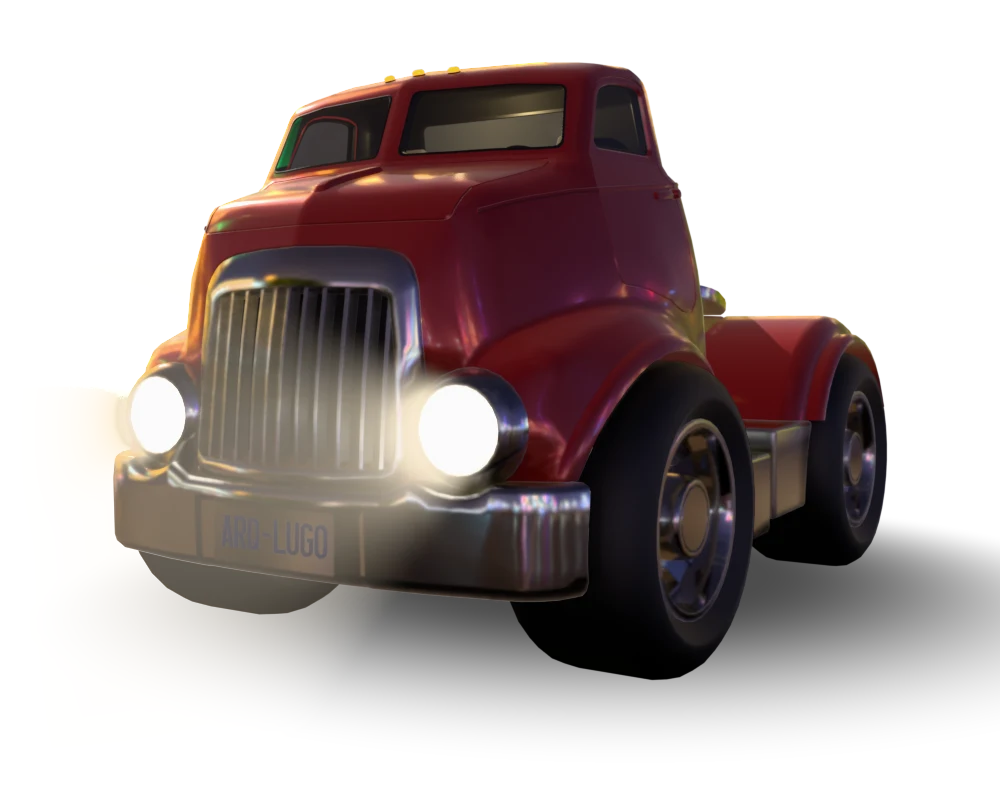
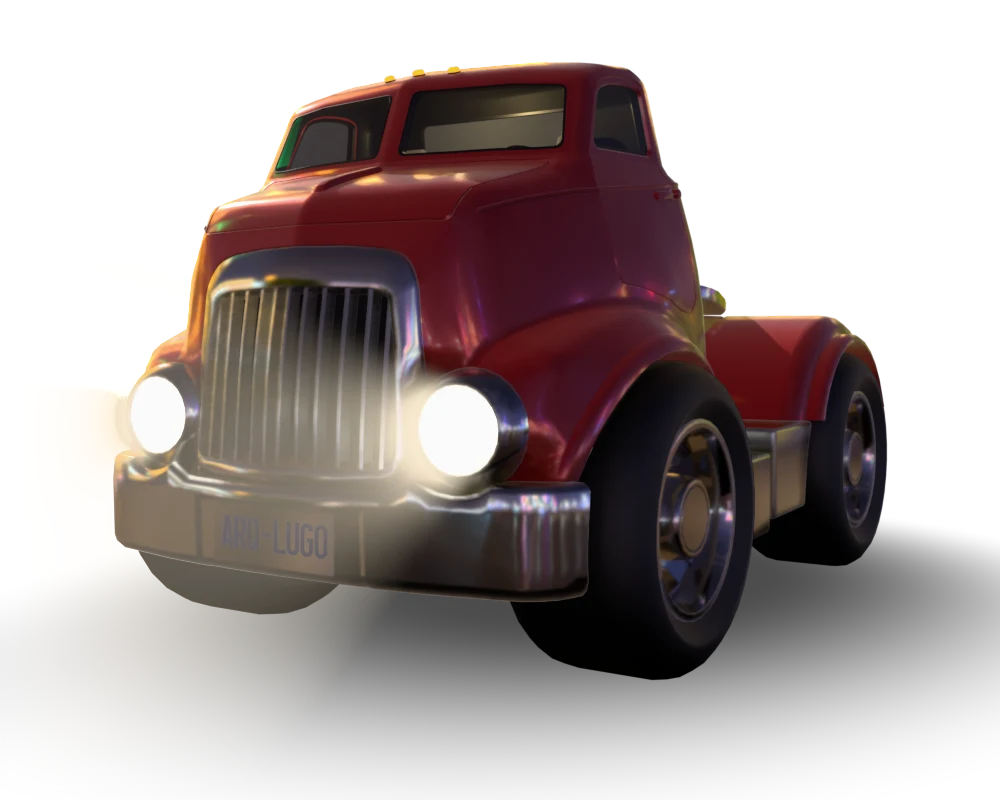
Home page truck: disk under the front wheels, truck 15% larger

Changed region(s): [[0.062, 0.75, 0.806, 0.9688]]

diff --git a/style.css b/style.css
@@ -85,9 +85,12 @@ p{margin:0 0 1em;max-width:var(--measure)}
 /* the truck (truck.js): a poster until the layers are in, then the canvas, its Kneady buttons over it.
    The canvas and buttons reach 20% past the stage all round (truck.js PAD), so a stretched or leaning
    truck isn't cut off; they take no clicks there, so the text beside them stays clickable. */
-.truck-stage{position:relative;aspect-ratio:5/4;width:100%;justify-self:center;touch-action:none;margin-bottom:2.6rem}
-.truck-stage canvas,.truck-stage svg{position:absolute;left:-20%;top:-20%;width:140%;height:140%;pointer-events:none}
-.truck-poster{position:absolute;inset:0;width:100%;height:100%}
+/* --truck-zoom: how large the truck and its disk are drawn in their space on the page, about its
+   middle (1 fills the space as rendered); the page's layout stays as it is. The canvas reaches 20%
+   past the space on every side, for the headlights' beams and the disk */
+.truck-stage{--truck-zoom:1.15;position:relative;aspect-ratio:5/4;width:100%;justify-self:center;touch-action:none;margin-bottom:2.6rem}
+.truck-stage canvas,.truck-stage svg{position:absolute;left:calc(50% - 70% * var(--truck-zoom));top:calc(50% - 70% * var(--truck-zoom));width:calc(140% * var(--truck-zoom));height:calc(140% * var(--truck-zoom));pointer-events:none}
+.truck-poster{position:absolute;left:calc(50% - 50% * var(--truck-zoom));top:calc(50% - 50% * var(--truck-zoom));width:calc(100% * var(--truck-zoom));height:calc(100% * var(--truck-zoom))}
 .truck-stage canvas{opacity:0}
 .truck-stage.is-ready canvas{opacity:1}
 .truck-stage.is-ready .truck-poster{visibility:hidden}

diff --git a/index.html b/index.html
@@ -15,7 +15,7 @@
 <link rel="preconnect" href="https://fonts.googleapis.com">
 <link rel="preconnect" href="https://fonts.gstatic.com" crossorigin>
 <link href="https://fonts.googleapis.com/css2?family=Instrument+Sans:wght@400;500;600;700&display=swap" rel="stylesheet">
-<link rel="stylesheet" href="style.css?v=943613">
+<link rel="stylesheet" href="style.css?v=943614">
 </head>
 <body>
 <div class="wrap">
@@ -41,7 +41,7 @@
         </div>
       </div>
       <div class="truck-stage" data-src="truck/" tabindex="0" role="application" aria-label="Kneady controls to try, on a truck: the arrow keys squash and lean it, Enter opens its menu, then 1 changes its color, 2 switches its lights, 3 opens its door and 4 turns its wheels">
-        <img class="truck-poster" src="truck/poster.webp?v=943613" alt="A red cartoon truck with its headlights on" width="1000" height="800">
+        <img class="truck-poster" src="truck/poster.webp?v=943614" alt="A red cartoon truck with its headlights on" width="1000" height="800">
         <canvas aria-hidden="true"></canvas>
         <svg aria-hidden="true"></svg>
         <span class="stage-hint">Hover over the truck</span>
@@ -163,6 +163,6 @@
     </nav>
   </footer>
 </div>
-<script src="truck.js?v=943613"></script>
+<script src="truck.js?v=943614"></script>
 </body>
 </html>

diff --git a/docs/guide/index.html b/docs/guide/index.html
@@ -12,8 +12,8 @@
 <link href="https://fonts.googleapis.com" rel="preconnect"/>
 <link crossorigin="" href="https://fonts.gstatic.com" rel="preconnect"/>
 <link href="https://fonts.googleapis.com/css2?family=Instrument+Sans:wght@400;500;600;700&amp;display=swap" rel="stylesheet"/>
-<link rel="stylesheet" href="/style.css?v=943613">
-<script src="/docs/docs.js?v=943613" defer></script>
+<link rel="stylesheet" href="/style.css?v=943614">
+<script src="/docs/docs.js?v=943614" defer></script>
 </head>
 <body class="docs">
 <!-- Made by tools/build_docs.py from the Kneady repository. Edit the source and build again. -->

diff --git a/docs/index.html b/docs/index.html
@@ -12,8 +12,8 @@
 <link href="https://fonts.googleapis.com" rel="preconnect"/>
 <link crossorigin="" href="https://fonts.gstatic.com" rel="preconnect"/>
 <link href="https://fonts.googleapis.com/css2?family=Instrument+Sans:wght@400;500;600;700&amp;display=swap" rel="stylesheet"/>
-<link rel="stylesheet" href="/style.css?v=943613">
-<script src="/docs/docs.js?v=943613" defer></script>
+<link rel="stylesheet" href="/style.css?v=943614">
+<script src="/docs/docs.js?v=943614" defer></script>
 </head>
 <body class="docs">
 <!-- Made by tools/build_docs.py from the Kneady repository. Edit the source and build again. -->

diff --git a/docs/writing-a-tutorial/index.html b/docs/writing-a-tutorial/index.html
@@ -12,8 +12,8 @@
 <link href="https://fonts.googleapis.com" rel="preconnect"/>
 <link crossorigin="" href="https://fonts.gstatic.com" rel="preconnect"/>
 <link href="https://fonts.googleapis.com/css2?family=Instrument+Sans:wght@400;500;600;700&amp;display=swap" rel="stylesheet"/>
-<link rel="stylesheet" href="/style.css?v=943613">
-<script src="/docs/docs.js?v=943613" defer></script>
+<link rel="stylesheet" href="/style.css?v=943614">
+<script src="/docs/docs.js?v=943614" defer></script>
 </head>
 <body class="docs">
 <!-- Made by tools/build_docs.py from the Kneady repository. Edit the source and build again. -->

diff --git a/404.html b/404.html
@@ -12,7 +12,7 @@
 <link rel="preconnect" href="https://fonts.googleapis.com">
 <link rel="preconnect" href="https://fonts.gstatic.com" crossorigin>
 <link href="https://fonts.googleapis.com/css2?family=Instrument+Sans:wght@400;500;600;700&display=swap" rel="stylesheet">
-<link rel="stylesheet" href="style.css?v=943613">
+<link rel="stylesheet" href="style.css?v=943614">
 </head>
 <body>
 <div class="wrap">

diff --git a/made.html b/made.html
@@ -12,7 +12,7 @@
 <link rel="preconnect" href="https://fonts.googleapis.com">
 <link rel="preconnect" href="https://fonts.gstatic.com" crossorigin>
 <link href="https://fonts.googleapis.com/css2?family=Instrument+Sans:wght@400;500;600;700&display=swap" rel="stylesheet">
-<link rel="stylesheet" href="style.css?v=943613">
+<link rel="stylesheet" href="style.css?v=943614">
 </head>
 <body>
 <div class="wrap">

diff --git a/support.html b/support.html
@@ -12,7 +12,7 @@
 <link rel="preconnect" href="https://fonts.googleapis.com">
 <link rel="preconnect" href="https://fonts.gstatic.com" crossorigin>
 <link href="https://fonts.googleapis.com/css2?family=Instrument+Sans:wght@400;500;600;700&display=swap" rel="stylesheet">
-<link rel="stylesheet" href="style.css?v=943613">
+<link rel="stylesheet" href="style.css?v=943614">
 </head>
 <body>
 <div class="wrap">

diff --git a/tools/truck/pack_web.py b/tools/truck/pack_web.py
@@ -14,7 +14,8 @@ straight alpha; the page (truck.js) decodes them, works in linear light and puts
                            (opaque: black is none); the page moves it with the truck
   poster.webp              the truck as it first shows, for a browser without JavaScript
   disk                     the dark disk under the truck: black, its alpha feathered by distance on
-                           the ground from the circle in render_web.py's disk.json, at half size
+                           the ground (DISK, below; render_web.py's disk.json maps a pixel onto the
+                           ground), at half size. Changing DISK needs only this script run again
   truck.json               where each crop goes, the frame counts, the truck's middle and ground
 """
 import bpy, sys, os, json, glob, colorsys
@@ -142,29 +143,37 @@ ground_y = int(ys.max())
 # --- the disk under the truck. Greg, 22 November 2026: the floor "needs to just be a disk with very
 # feathered edges that's darker than the page background" - in place of the rendered floor, its
 # orange and the reflection - then "It needs to extend past the bottom of the rear tires".
-# Black, DARK out to CORE of its radius, feathered from there to nothing at its edge, measured on the
-# ground (disk.json maps a pixel onto it), so it follows the perspective: a flat ellipse on the
-# screen left the rear tires in its faint edge. Drawn at half size; the page scales it up
+# Black, `dark` out to `core` of its radius, feathered from there to nothing at its edge, measured on
+# the ground (disk.json maps a pixel onto it), so it follows the perspective: a flat ellipse on the
+# screen left the rear tires in its faint edge. Drawn at half size; the page scales it up.
+# Its middle and radii are meters on the ground, y toward the truck's rear (its tires run from y -5.2
+# at the front to -0.1 at the rear), one radius toward the rear, one toward the front, one to the
+# sides. Greg, of rear 4.0, front 4.0: "The rear of the disc is exactly right. The front looks like it
+# should extend further under the front wheels" - front 5.0 puts the front wheels as deep in the dark
+# as the rear ones
 yy, xx = np.mgrid[0:H, 0:W]
 def ease(t):
     t = np.clip(t, 0.0, 1.0)
     return t * t * (3 - 2 * t)
 fade = ease(np.minimum(np.minimum(xx, W - 1 - xx), np.minimum(yy, H - 1 - yy)) / FADE)
+DISK = {'center': (0.0, -2.2), 'rear': 4.0, 'front': 5.0, 'side': 4.0, 'dark': 0.7, 'core': 0.3}
 with open(os.path.join(SRC, 'disk.json')) as f:
-    disk = json.load(f)
-DARK, CORE = 0.7, 0.3
+    to_ground = np.array(json.load(f)['to_ground'])
 def disk_alpha(u, v):
     """The disk's alpha at render pixels (u, v), x right and y down."""
-    m = np.array(disk['to_ground'])
+    m, d = to_ground, DISK
     gx, gy, w = (m[i, 0] * u + m[i, 1] * v + m[i, 2] for i in range(3))
     ahead = w > 1e-6                                          # below the horizon
     w = np.where(ahead, w, 1.0)
-    r = np.hypot(gx / w - disk['center'][0], gy / w - disk['center'][1]) / disk['radius']
-    return np.where(ahead, DARK * (1.0 - ease((r - CORE) / (1.0 - CORE))), 0.0)
+    dx, dy = gx / w - d['center'][0], gy / w - d['center'][1]
+    r = np.hypot(dx / d['side'], dy / np.where(dy > 0, d['rear'], d['front']))
+    return np.where(ahead, d['dark'] * (1.0 - ease((r - d['core']) / (1.0 - d['core']))), 0.0)
 PAD = 0.2                                                     # the page's canvas reaches this far past the frame
 px0, py0 = -PAD * W, -PAD * H
 dv, du = np.mgrid[0:int(H * (1 + 2 * PAD)) // 2, 0:int(W * (1 + 2 * PAD)) // 2]
-half = disk_alpha(px0 + 2 * du + 1.0, py0 + 2 * dv + 1.0)
+# faded out near the canvas's edges, so a large disk never ends in a line there
+edge = ease(np.minimum(np.minimum(du, du[0, -1] - du), np.minimum(dv, dv[-1, 0] - dv)) / 40.0)
+half = disk_alpha(px0 + 2 * du + 1.0, py0 + 2 * dv + 1.0) * edge
 dr = bbox(half > 0.5 / 255.0, pad=2)
 img = np.zeros(half.shape + (4,), dtype=np.float32); img[..., 3] = half
 sizes['disk'] = save(crop(img, dr), 'disk')

diff --git a/tools/truck/render_web.py b/tools/truck/render_web.py
@@ -14,8 +14,8 @@ mode "layers":  every layer, linear light (Standard view, EXPOSURE stops down fo
   lights_on            door_B_0 with the lights on (the page takes door_B_0 from it: the lights' light)
   wheels_k             the front wheels alone (everything else a holdout), steered from full left
                        (k = 0) to full right (k = STEER_FRAMES - 1)
-mode "disk":    only disk.json (the disk under the truck: its middle and radius on the ground, and
-                how a pixel of the render maps onto the ground), with no render.
+mode "disk":    only disk.json (how a pixel of the render maps onto the ground, for the disk under
+                the truck that pack_web.py draws), with no render.
 Every mode writes disk.json; pack_web.py reads it with the layers and turns them into the page's files.
 """
 import bpy, sys, os, math
@@ -89,14 +89,10 @@ def frame_truck():
     print('framed: lens %.2f shift %.3f %.3f' % (cam_data.lens, cam_data.shift_x, cam_data.shift_y), flush=True)
 frame_truck()
 
-# --- the disk under the truck: a circle on the ground round its tires. Greg: the floor "needs to
-# just be a disk with very feathered edges that's darker than the page background". pack_web.py draws
-# it, feathered by distance on the ground, not on the screen: in perspective the far half of a circle
-# is squeezed, and a flat ellipse on the screen left the rear tires in its faint edge.
-# Meters. The tires run from y -5.2 (front) to -0.1 (rear); the middle is pulled back toward the
-# rear, so the rear tires stand well in the dark (Greg: "It needs to extend past the bottom of the
-# rear tires"), and it reaches a little past the front bumper
-DISK_CENTER, DISK_RADIUS = (0.0, -2.2), 4.0
+# --- the disk under the truck: pack_web.py draws it (its size and shape are there, DISK), feathered
+# by distance on the ground, not on the screen: in perspective the far half of a circle is squeezed,
+# and a flat ellipse on the screen left the rear tires in its faint edge. This says how a pixel of the
+# render maps onto the ground.
 def disk_mapping():
     """The 3 x 3 matrix taking a render pixel (x right, y down, as homogeneous (x, y, 1)) to a point on
     the ground (gx, gy, w): fitted to ground points projected through the camera."""
@@ -122,7 +118,7 @@ def disk_mapping():
     return [[float(x) for x in row] for row in m]
 import json
 with open(os.path.join(OUT, 'disk.json'), 'w') as f:
-    json.dump({'center': list(DISK_CENTER), 'radius': DISK_RADIUS, 'to_ground': disk_mapping()}, f)
+    json.dump({'to_ground': disk_mapping()}, f)
 if MODE == 'disk':
     print('disk', open(os.path.join(OUT, 'disk.json')).read(), flush=True)
     sys.exit(0)

diff --git a/tools/README.md b/tools/README.md
@@ -18,14 +18,23 @@ again. Edit `docs/docs.js` (the clip player) by hand; the build leaves it alone.
 The truck you can hover and drag on the home page (`truck.js`) is a set of
 renders in `truck/`: the truck with white and with black paint (so the page
 can recolor it), the door at 16 more angles, the front wheels at 17 steering
-angles (the page shows the nearest, never a blend of two), and the light the
-headlights add, and a dark, feathered disk for the truck to stand on: a circle
-on the ground round its tires (`DISK_CENTER`, `DISK_RADIUS` in meters, in
-`render_web.py`), feathered by distance on the ground so it follows the
-perspective. How dark it is, and how far out it stays that dark before it
-fades, are `DARK` and `CORE` in `pack_web.py`. Remake them
-after changing the truck in Blender. Rendering takes two to three minutes. The page
-reads the frame counts and sizes from `truck/truck.json`, so it needs no change.
+angles (the page shows the nearest, never a blend of two), the light the
+headlights add, and a dark, feathered disk for the truck to stand on. Remake
+them after changing the truck in Blender. Rendering takes two to three minutes.
+The page reads the frame counts and sizes from `truck/truck.json`, so it needs
+no change.
+
+**Changing the disk needs no render.** Its shape is `DISK` in `pack_web.py`:
+its middle on the ground and three radii (toward the truck's rear, its front
+and its sides), in meters, then how dark it is and how far out (`core`, a
+fraction of the radius) it stays that dark before it fades. Run step 3 alone
+on the layers you rendered last, then steps 4 and 5.
+
+**Changing how large the truck shows needs neither.** It's `--truck-zoom` at
+the top of the truck's rules in `style.css` (1 is the size it was rendered
+at; 1.15 draws the truck and its disk 15% larger in the same space). Change it,
+then steps 4 and 5. Past about 1.2 the renders start to look soft on a sharp
+screen: render wider in step 2 (`1200` in place of `1000`) to keep them crisp.
 
 In **PowerShell** (Start menu, type `PowerShell`, open it), with the truck's
 `.blend` saved:
